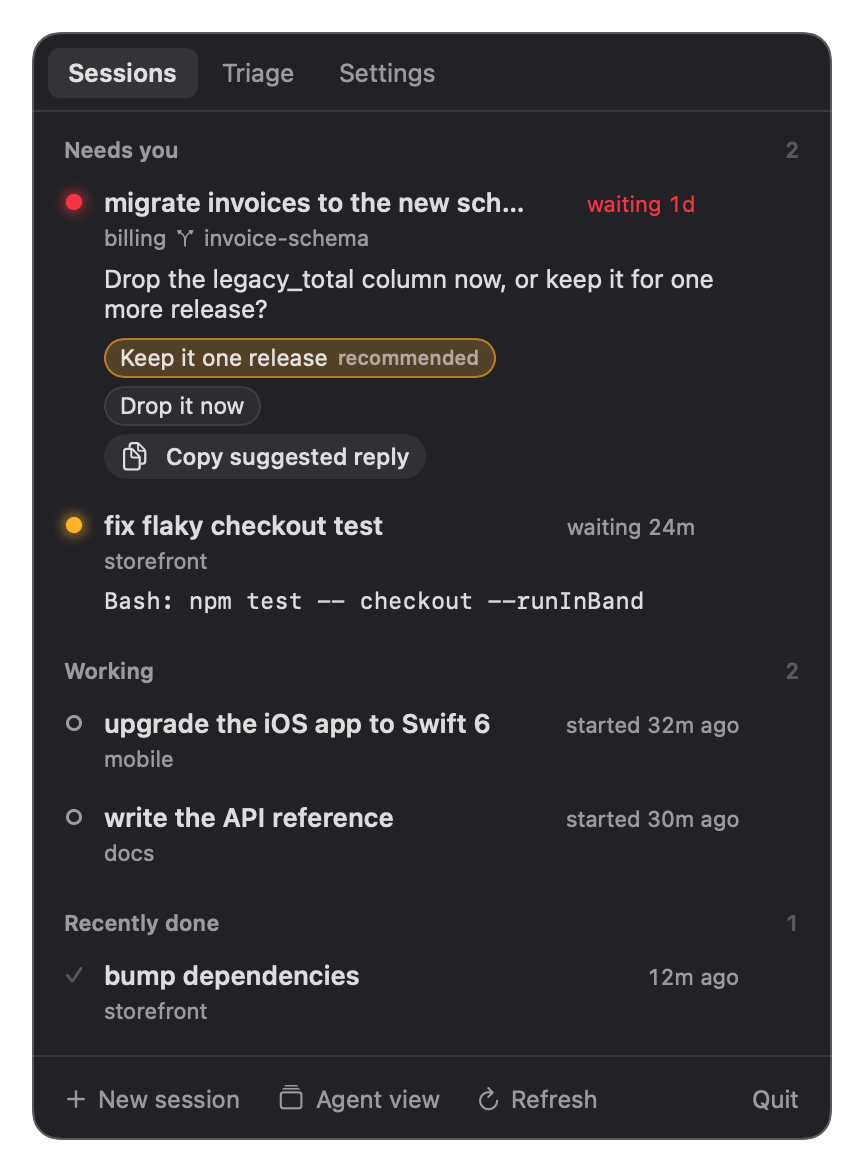
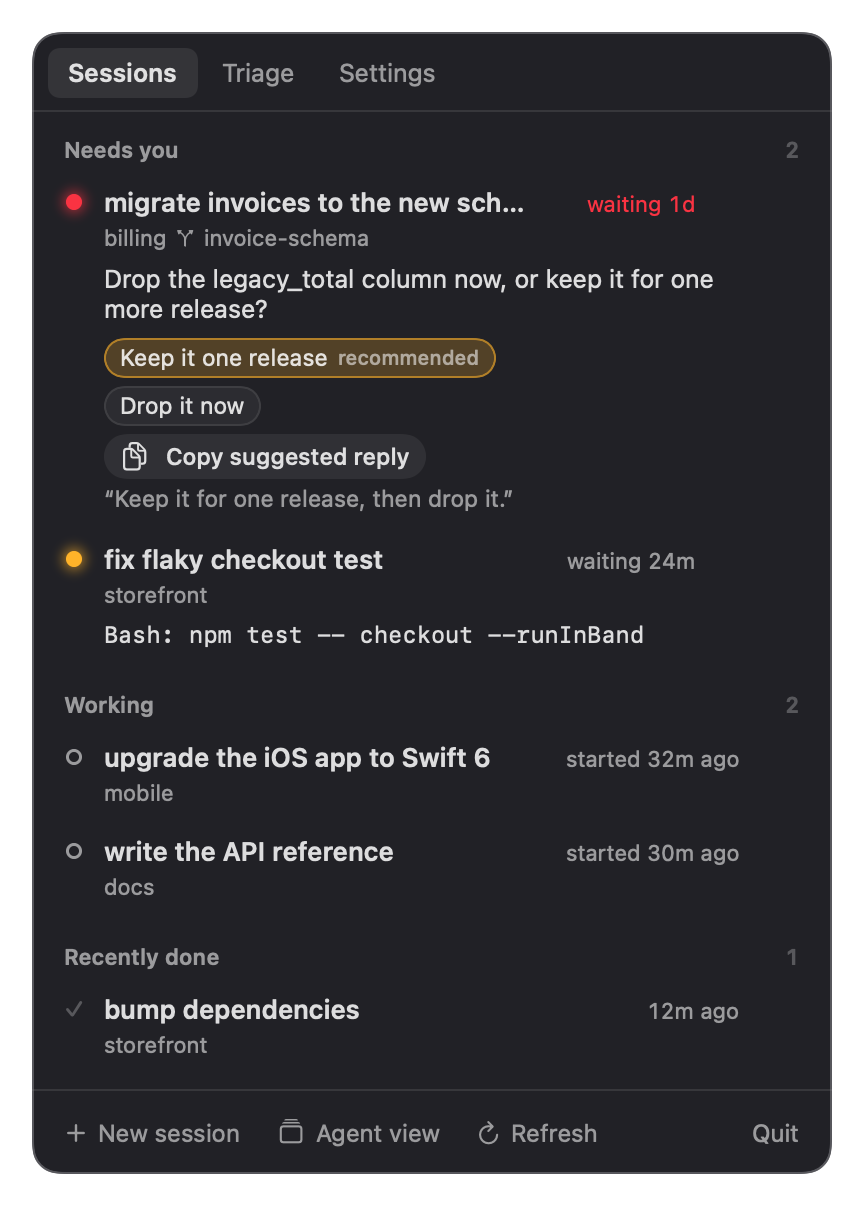
Say where a waiting session stands, not only what it asks (#24)
The row showed only the state file's needs, which can be two words. It now also shows Claude Code's sentence on what the last turn came to, and the text of the suggested reply.

diff --git a/Tests/PorchlightCoreTests/InboxRowTests.swift b/Tests/PorchlightCoreTests/InboxRowTests.swift
@@ -47,6 +47,30 @@ import Testing
         #expect(row.isOverdue)
     }
 
+    @Test func aWaitingRowSaysWhereTheSessionStandsBesideWhatItAsks() throws {
+        // What the last turn came to, from the state file's `output.result`.
+        #expect(try rows()["11111111"]?.context == "Found two candidate timeouts.")
+        // A question with options and an approval have none in these files (`output` is null).
+        #expect(try rows()["22222222"]?.context == nil && rows()["55555555"]?.context == nil)
+
+        func row(_ fields: [String: Any], state: SessionState = .blocked) throws -> InboxRow {
+            var json: [String: Any] = ["state": "blocked", "name": "n", "needs": "which one."]
+            fields.forEach { json[$0] = $1 }
+            let job = try JSONDecoder().decode(JobState.self, from: JSONSerialization.data(withJSONObject: json))
+            return InboxRow(session: Session(summary: SessionSummary(id: "a", name: "n", state: state), job: job), now: Date())
+        }
+        // Without a result the status line serves; an odd `output` is passed over, not fatal.
+        #expect(try row(["detail": "layer 3 confirmed; layers 4 to 6 next"]).context == "layer 3 confirmed; layers 4 to 6 next")
+        #expect(try row(["detail": "status", "output": "text"]).context == "status")
+        #expect(try row(["detail": "status", "output": ["result": ""]]).context == "status")
+        #expect(try row(["output": ["result": "Line one\nline two"]]).context == "Line one line two")
+        // Said once, and only while the session waits; never for an approval.
+        #expect(try row(["output": ["result": "Which one."]]).context == nil)
+        #expect(try row([:]).context == nil)
+        #expect(try row(["output": ["result": "Done."]], state: .working).context == nil)
+        #expect(try row(["needs": "approve Bash: make", "output": ["result": "Ready to build."]]).context == nil)
+    }
+
     @Test func sessionsThatAreNotBlockedShowNoQuestion() throws {
         let rows = try rows()
         let working = try #require(rows["33333333"])

diff --git a/Sources/PorchlightUI/InboxView.swift b/Sources/PorchlightUI/InboxView.swift
@@ -586,6 +586,16 @@ struct InboxRowView: View {
                         .foregroundStyle(.secondary)
                         .lineLimit(1)
 
+                        if let context = row.context {
+                            // Where the session stands, before what it asks: the ask alone can
+                            // be two words.
+                            Text(context)
+                                .font(.system(size: 11.5))
+                                .foregroundStyle(.secondary)
+                                .lineLimit(3)
+                                .fixedSize(horizontal: false, vertical: true)
+                                .padding(.top, 3)
+                        }
                         if let detail = row.detail {
                             Text(row.kind == .approval ? "\(row.tool ?? "Tool"): \(detail)" : detail)
                                 .font(row.kind == .approval ? .system(size: 11.5, design: .monospaced) : .system(size: 12.5))
@@ -717,7 +727,18 @@ struct InboxRowView: View {
                 .buttonStyle(.plain)
                 .onHover { hover.set("reply.\(row.id)", $0) }
                 .padding(.leading, 30)
-                .padding(.bottom, 8)
+                .padding(.bottom, 3)
+                if let reply = row.suggestedReply {
+                    // What would be copied, so the choice can be judged without opening the session.
+                    Text("\u{201C}\(reply)\u{201D}")
+                        .font(.system(size: 11.5))
+                        .foregroundStyle(.secondary)
+                        .lineLimit(2)
+                        .fixedSize(horizontal: false, vertical: true)
+                        .padding(.leading, 30)
+                        .padding(.trailing, 10)
+                        .padding(.bottom, 8)
+                }
             }
 
             if row.isRetryable {

diff --git a/Sources/PorchlightCore/JobState.swift b/Sources/PorchlightCore/JobState.swift
@@ -87,13 +87,17 @@ public struct JobState: Sendable, Equatable, Decodable {
     public let questions: [Question]
     public let children: [Child]
     public let cliVersion: String?
+    /// Claude Code's own sentence on what the last turn came to. Where the session stands,
+    /// beside what it asks for in `needs`.
+    public let result: String?
 
     private enum CodingKeys: String, CodingKey {
         case state, name, nameSource, tempo, needs, detail, suggestedReply, cwd, worktreePath
-        case worktreeBranch, updatedAt, createdAt, block, children, cliVersion
+        case worktreeBranch, updatedAt, createdAt, block, children, cliVersion, output
     }
 
     private enum BlockKeys: String, CodingKey { case questions }
+    private enum OutputKeys: String, CodingKey { case result }
 
     public init(from decoder: Decoder) throws {
         let c = try decoder.container(keyedBy: CodingKeys.self)
@@ -116,6 +120,11 @@ public struct JobState: Sendable, Equatable, Decodable {
         updatedAt = string(.updatedAt).flatMap(Self.parseDate)
         createdAt = string(.createdAt).flatMap(Self.parseDate)
         cliVersion = string(.cliVersion)
+
+        // Sometimes an object, sometimes null; only its one sentence is taken.
+        let output = try? c.nestedContainer(keyedBy: OutputKeys.self, forKey: .output)
+        let sentence = (try? output?.decodeIfPresent(String.self, forKey: .result)) ?? nil
+        result = sentence.flatMap { $0.isEmpty ? nil : $0 }
 
         let block = try? c.nestedContainer(keyedBy: BlockKeys.self, forKey: .block)
         questions = (try? block?.decodeIfPresent(LossyArray<Question>.self, forKey: .questions))?.elements ?? []

diff --git a/Sources/PorchlightCore/InboxRow.swift b/Sources/PorchlightCore/InboxRow.swift
@@ -30,6 +30,9 @@ public struct InboxRow: Sendable, Equatable, Identifiable {
     public let kind: Kind
     /// The question, the command awaiting approval, or the raw need. Nil when nothing is known.
     public let detail: String?
+    /// Where a waiting session stands, when that says more than `detail` does. Not for an
+    /// approval, which is about one command.
+    public let context: String?
     /// The tool a pending approval is for, such as "Bash".
     public let tool: String?
     /// Choices offered with a question, in order, without the "(Recommended)" marker.
@@ -103,7 +106,11 @@ public struct InboxRow: Sendable, Equatable, Identifiable {
             age = nil
         }
         self.tool = tool
-        self.detail = detail.map(Self.singleLine)
+        let shown = detail.map(Self.singleLine)
+        self.detail = shown
+        let standing = kind == .question || kind == .waiting ? session.standing.map(Self.singleLine) : nil
+        // Said once: not when it only repeats the question.
+        context = standing.flatMap { $0.caseInsensitiveCompare(shown ?? "") == .orderedSame ? nil : $0 }
         let labels = session.questions.first?.options.map(\.label) ?? []
         let marker = "(Recommended)"
         recommendedOption = labels.firstIndex { $0.localizedCaseInsensitiveContains(marker) }

diff --git a/Sources/PorchlightCore/Session.swift b/Sources/PorchlightCore/Session.swift
@@ -76,6 +76,10 @@ public struct Session: Sendable, Equatable, Identifiable {
     }
     public var suggestedReply: String? { needsHuman ? job?.suggestedReply : nil }
 
+    /// Where a waiting session stands, in Claude Code's own words: what the last turn came to,
+    /// or failing that its status line. What it asks for is often too short to act on alone.
+    public var standing: String? { needsHuman ? (job?.result ?? job?.detail) : nil }
+
     /// When the session started waiting: the job file's last update if there is one, otherwise the
     /// first time the store observed it blocked.
     public var waitingSince: Date? { needsHuman ? (job?.updatedAt ?? observedBlockedSince) : nil }

diff --git a/spec.md b/spec.md
@@ -425,6 +425,8 @@ What Claude Code documents for programs outside it (same date): `claude agents -
 - Only the call that was waiting ends the wait: another tool finishing beside an open approval does not.
 - A session that asked before the app started has only its state file until the mod next speaks (within a minute, for an open question). A reload of the mod forgets what was open; the state file covers that too.
 
+**Where a waiting session stands (2026-10-10).** Seen by the owner: a session that ended its turn with a long report and "I'll start when you say which one." showed in the panel as "which one." and nothing else, because the row drew only the state file's `needs`. The same file holds `output.result`, Claude Code's sentence on what the turn came to, and `detail`, its status line. A row that waits on a question or on free text now shows one of them (the result first) above what it asks, unless it only repeats it; an approval does not, being about one command. The suggested reply's text is drawn under its button, so the choice can be judged before opening the session. `intent` and `providerEnv` are still never read.
+
 **Built, layer 3 (2026-10-10): answering one question from the panel.** The owner changed rule 8 in 12.1 for this.
 
 - *What can be answered:* a session that is waiting, whose mod said it takes answers (`"can": ["answer"]` and an id for this asking, `q<n>-<time>`), with exactly one question, options, one to be picked, and only when that question is the one the row shows (`Session.answerTarget`). Several questions, a choice of several and typed text stay with the session's dialog; so does everything from a mod older than 0.2.0, whose options stay plain text.

diff --git a/docs/guide.md b/docs/guide.md
@@ -219,7 +219,8 @@ Porchlight is local only: no account, no server, no telemetry. What it touches o
 - **It asks your login shell for its environment once, at launch**, so that sessions started from
   Porchlight have the same `PATH` and variables as ones you start in a terminal. The values are
   passed on to `claude` and kept in memory only: never logged, never written to disk.
-- **It reads `~/.claude/jobs/*/state.json`**, read-only, for the question a session is waiting on.
+- **It reads `~/.claude/jobs/*/state.json`**, read-only, for the question a session is waiting on
+  and Claude Code's one-sentence summary of where it stands.
   It never reads the fields that can hold your prompt or environment values.
 - **For a summary on this Mac, it reads that one session's conversation file**
   (`~/.claude/projects/…/<id>.jsonl`), read-only, and only when you ask for the summary. It takes
